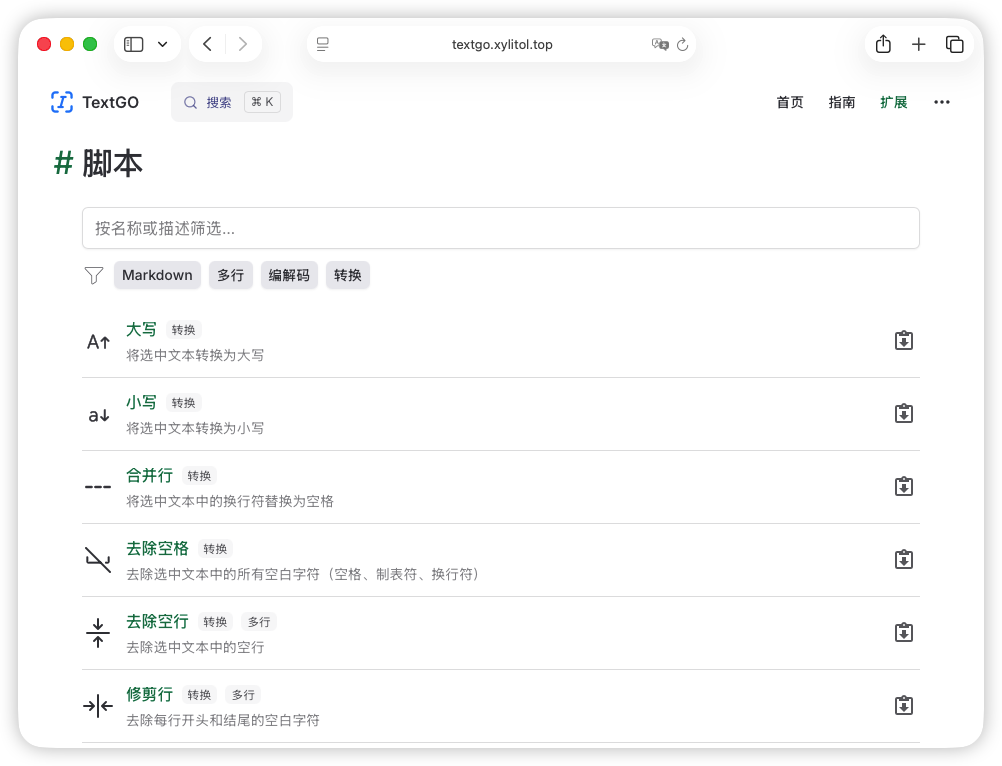
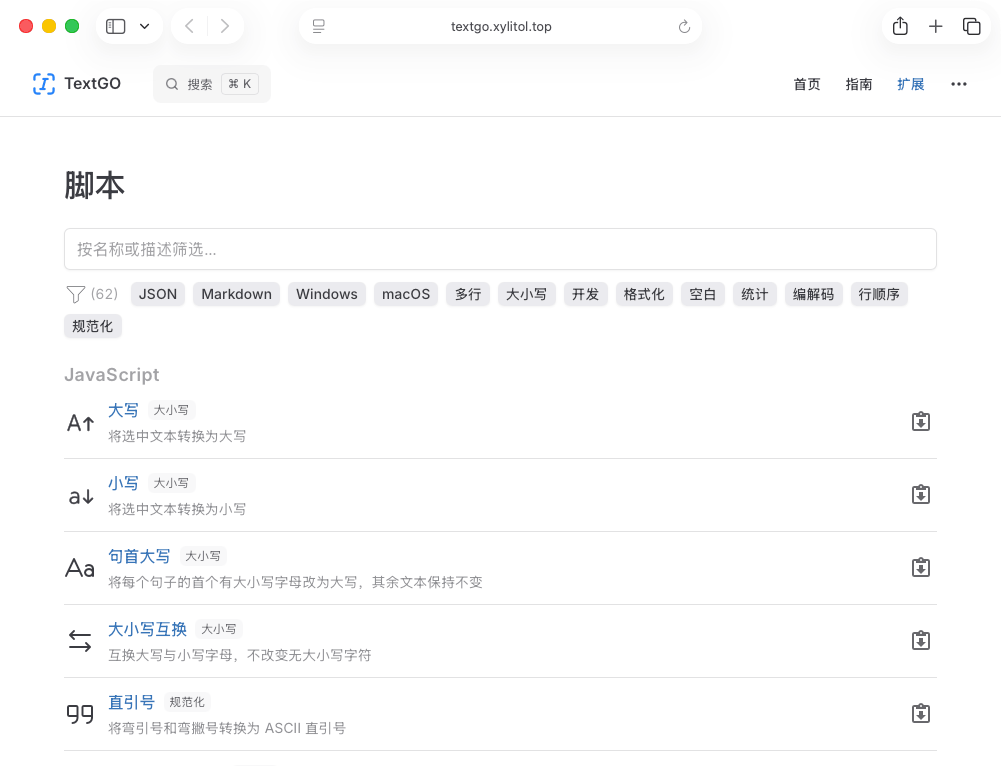
docs: refresh README screenshots

diff --git a/README.md b/README.md
@@ -26,7 +26,7 @@ _TextGO is a cross-platform text processing tool that recognizes text types and 
 
 ## ✨ Core Features
 
-- **Multiple Triggers**: Hotkeys, double-click, shift-click, or drag-select, each with independent rule configurations.
+- **Multiple Triggers**: Trigger via hotkeys, double-click, drag-select, and more, with independent rules for each.
 - **Flexible Modes**: Choose instant execution or interactive toolbar mode based on your workflow.
 - **Customizable Appearance**: Use custom SVG toolbar icons and customize light and dark themes separately.
 - **Ready to Use**: A rich set of built-in text types and processing actions, ready to use with minimal configuration.

diff --git a/README.zh-CN.md b/README.zh-CN.md
@@ -26,7 +26,7 @@ _TextGO 是一款跨平台文本处理工具，可识别文本类型并执行自
 
 ## ✨ 核心特性
 
-- **快捷触发**：可通过键盘快捷键、鼠标双击、Shift 扩展选中或拖拽选中触发，每种方式独立配置规则
+- **快捷触发**：可通过键盘快捷键、鼠标双击、拖拽选中等方式触发，每种方式独立配置规则
 - **灵活模式**：支持立即执行或工具栏交互两大模式，自由切换应对不同场景
 - **个性外观**：支持自定义 SVG 工具栏图标，并可分别自定义浅色和深色主题
 - **开箱即用**：内置丰富的文本类型和处理动作，简单配置后即可使用
